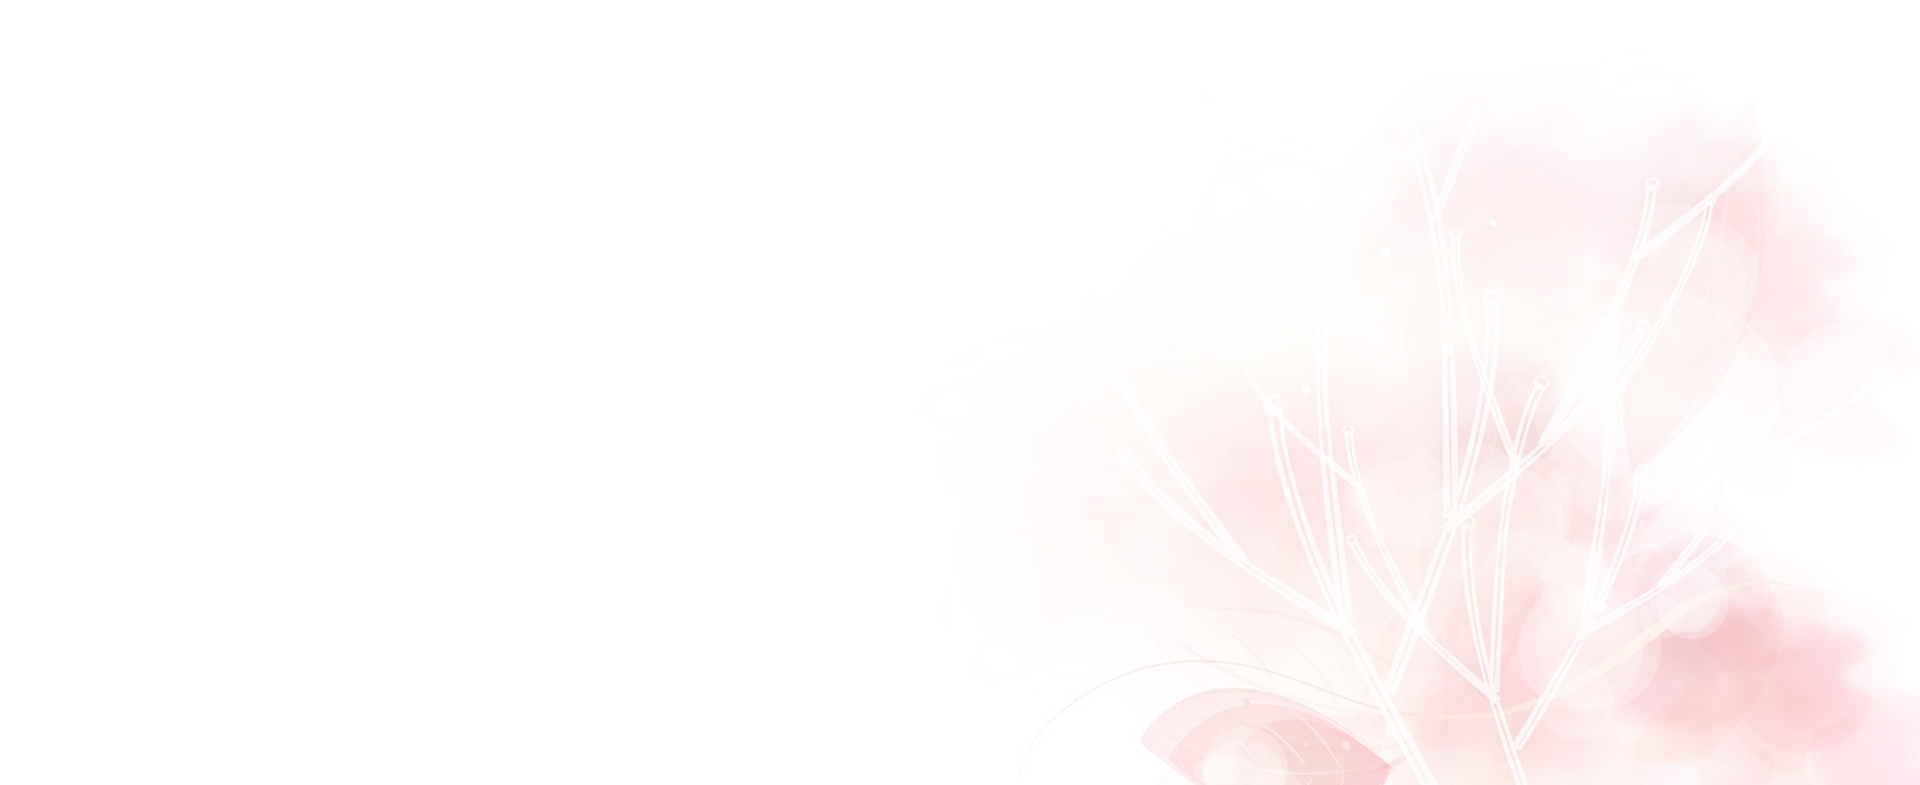
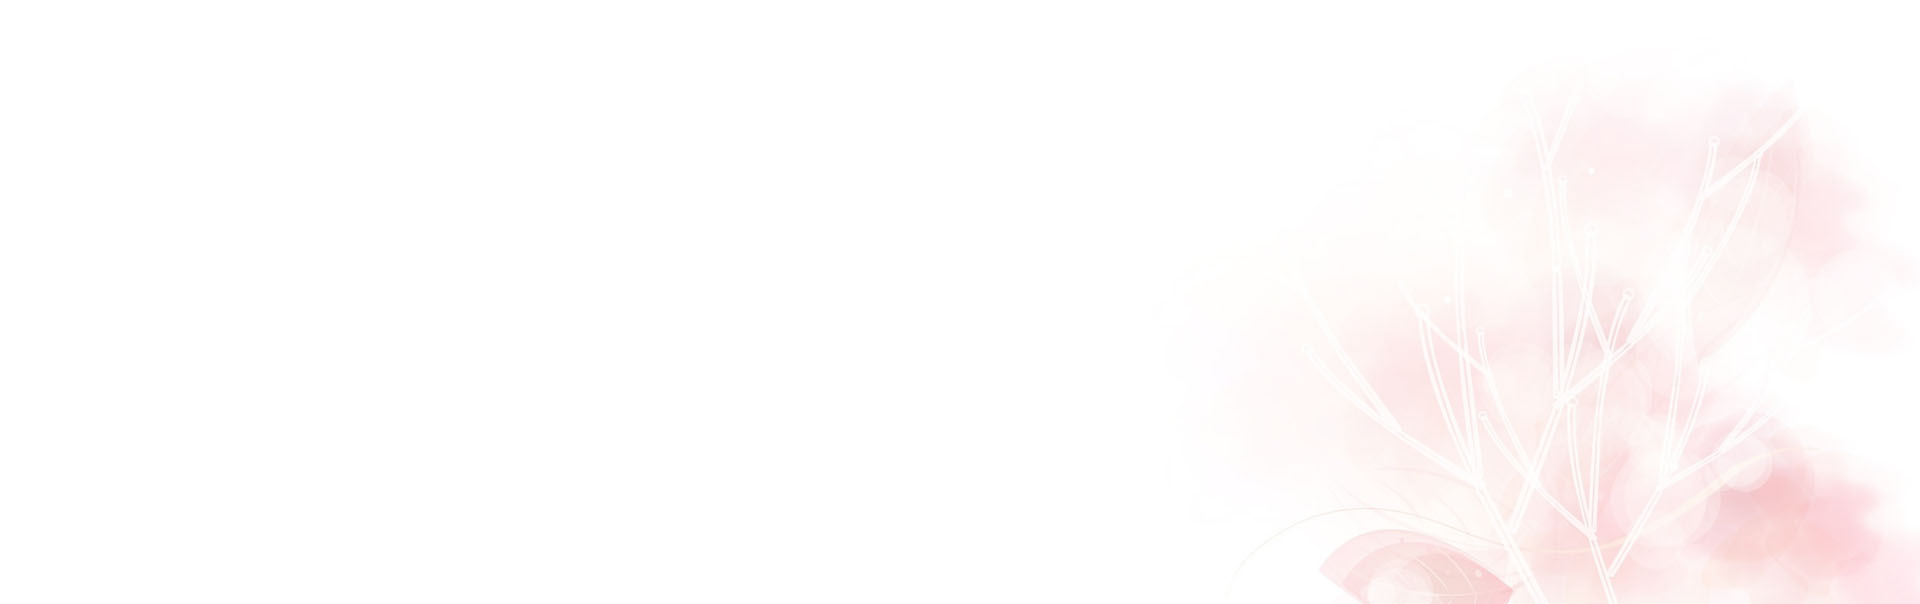
ui

diff --git a/src/app/project-sponsors/project-sponsors.component.html b/src/app/project-sponsors/project-sponsors.component.html
@@ -22,7 +22,10 @@
         </div>
       </div>
     </div>
-    <div class="container-fluid">
+    <div class="project-detail-bg">
+      <div class="row">
+
+    <div class="container">
       <div class="row mb-4">
         <div class="project-detail-h-set">
           <h4>Location Details</h4>
@@ -92,122 +95,86 @@
         </div>
       </div>
     </div>
-    <!-- <p-button
-      label="Add Sponsor"
-      (click)="ProjectSponsorSidebarVisible = true"
-    /> -->
+  </div>
 
-    <form
-      [formGroup]="donorForm"
-      style="width: 600px; margin: auto"
-      (ngSubmit)="updatedonorForm()"
-    >
-      <div class="tab-pop-txt">
-        <h4>Add Sponsor</h4>
-      </div>
+  </div>
 
-      <div class="">
-        <div class="project-detail-set mt-4">
-          <div class="project-detail-set-h">Donor Name</div>
-          <div class="project-detail-set-v mt-2">
-            <input
-              pInputText
-              id="DonorsName"
-              formControlName="DonorsName"
-              aria-describedby="DonorsName"
-            />
+
+    <form [formGroup]="donorForm" (ngSubmit)="updatedonorForm()">
+
+      <div class="container">
+        <div class="row">
+          <div class="tab-pop-txt">
+            <h4>Add Your Details</h4>
           </div>
         </div>
-
-        <div class="project-detail-set mt-4">
-          <div class="project-detail-set-h">Phone</div>
-          <div class="project-detail-set-v mt-2">
-            <p-inputNumber
-              id="DonorsPhone"
-              mode="decimal"
-              [useGrouping]="false"
-              formControlName="DonorsPhone"
-              aria-describedby="DonorsPhone"
-            />
+        <div class="row">
+          <div class="mt-4 col-3">
+            <div class="project-detail-set-h">Donor Name</div>
+            <div class="project-detail-set-v mt-2">
+              <input pInputText id="DonorsName" formControlName="DonorsName" aria-describedby="DonorsName" />
+            </div>
           </div>
-        </div>
 
-        <div class="project-detail-set mt-4">
-          <div class="project-detail-set-h">e-mail</div>
-          <div class="project-detail-set-v mt-2">
-            <input
-              pInputText
-              id="DonorsEmail"
-              formControlName="DonorsEmail"
-              aria-describedby="DonorsEmail"
-            />
+          <div class="mt-4 col-3">
+            <div class="project-detail-set-h">Phone</div>
+            <div class="project-detail-set-v mt-2">
+              <p-inputNumber id="DonorsPhone" mode="decimal" [useGrouping]="false" formControlName="DonorsPhone"
+                aria-describedby="DonorsPhone" />
+            </div>
           </div>
-        </div>
 
-        <div class="project-detail-set mt-4">
-          <div class="project-detail-set-h">Address</div>
-          <div class="project-detail-set-v mt-2">
-            <textarea
-              rows="5"
-              cols="30"
-              pInputTextarea
-              id="DonorsAddress"
-              aria-describedby="DonorsAddress"
-              formControlName="DonorsAddress"
-            >
+          <div class="mt-4 col-3">
+            <div class="project-detail-set-h">e-mail</div>
+            <div class="project-detail-set-v mt-2">
+              <input pInputText id="DonorsEmail" formControlName="DonorsEmail" aria-describedby="DonorsEmail" />
+            </div>
+          </div>
+
+          <div class="mt-4 col-3">
+            <div class="project-detail-set-h">Address</div>
+            <div class="project-detail-set-v mt-2">
+              <textarea rows="5" cols="30" pInputTextarea id="DonorsAddress" aria-describedby="DonorsAddress"
+                formControlName="DonorsAddress">
             </textarea>
+            </div>
           </div>
+
+          <div class="mt-4 col-3">
+            <div class="project-detail-set-h">Memory of</div>
+            <div class="project-detail-set-v mt-2">
+              <input pInputText id="DonorsMemoryOf" aria-describedby="DonorsMemoryOf"
+                formControlName="DonorsMemoryOf" />
+            </div>
+          </div>
+
+          <div class="mt-4 col-3">
+            <div class="project-detail-set-h">Amount</div>
+            <div class="project-detail-set-v mt-2">
+              <p-inputNumber id="DonorsAmount" mode="decimal" formControlName="DonorsAmount" />
+            </div>
+          </div>
+
+          <div class="mt-4 col-3">
+            <div class="project-detail-set-h">Mode of Payment</div>
+            <div class="project-detail-set-v mt-2">
+              <input pInputText id="DonorsModeofPayment" aria-describedby="DonorsModeofPayment"
+                formControlName="DonorsModeofPayment" />
+            </div>
+          </div>
+
+          
         </div>
 
-        <div class="project-detail-set mt-4">
-          <div class="project-detail-set-h">Memory of</div>
-          <div class="project-detail-set-v mt-2">
-            <input
-              pInputText
-              id="DonorsMemoryOf"
-              aria-describedby="DonorsMemoryOf"
-              formControlName="DonorsMemoryOf"
-            />
+        <div class="row">
+          <div class="tab-footer-btns mt-4">
+            <p-button label="Cancel " (click)="ProjectSponsorSidebarVisible = false" class="cancel-btn" />
+            <p-button label="Add " type="submit" class="submit-btn" [disabled]="!donorForm.valid" />
           </div>
-        </div>
 
-        <div class="project-detail-set mt-4">
-          <div class="project-detail-set-h">Amount</div>
-          <div class="project-detail-set-v mt-2">
-            <p-inputNumber
-              id="DonorsAmount"
-              mode="decimal"
-              formControlName="DonorsAmount"
-            />
-          </div>
-        </div>
-
-        <div class="project-detail-set mt-4">
-          <div class="project-detail-set-h">Mode of Payment</div>
-          <div class="project-detail-set-v mt-2">
-            <input
-              pInputText
-              id="DonorsModeofPayment"
-              aria-describedby="DonorsModeofPayment"
-              formControlName="DonorsModeofPayment"
-            />
-          </div>
         </div>
       </div>
 
-      <div class="tab-footer-btns">
-        <p-button
-          label="Cancel "
-          (click)="ProjectSponsorSidebarVisible = false"
-          class="cancel-btn"
-        />
-        <p-button
-          label="Add "
-          type="submit"
-          class="submit-btn"
-          [disabled]="!donorForm.valid"
-        />
-      </div>
     </form>
   </div>
 </div>

diff --git a/src/app/project-sponsors/project-sponsors.component.scss b/src/app/project-sponsors/project-sponsors.component.scss
@@ -112,3 +112,13 @@
         font-size: 22px;
     }
   }
+
+
+  .project-detail-bg{
+    background-color: #f1f1f1;
+    margin-top: -20px;
+    margin-left: -30px;
+    margin-right: -30px;
+    padding: 30px 40px 10px 40px;
+    margin-bottom: 30px;
+  }

diff --git a/src/styles.scss b/src/styles.scss
@@ -16,6 +16,7 @@ html, body {
 	font: inherit;
 	vertical-align: baseline;
   font-family: proxima-nova, sans-serif!important;
+  overflow-x: hidden;
 }
 /* HTML5 display-role reset for older browsers */
 article, aside, details, figcaption, figure,
